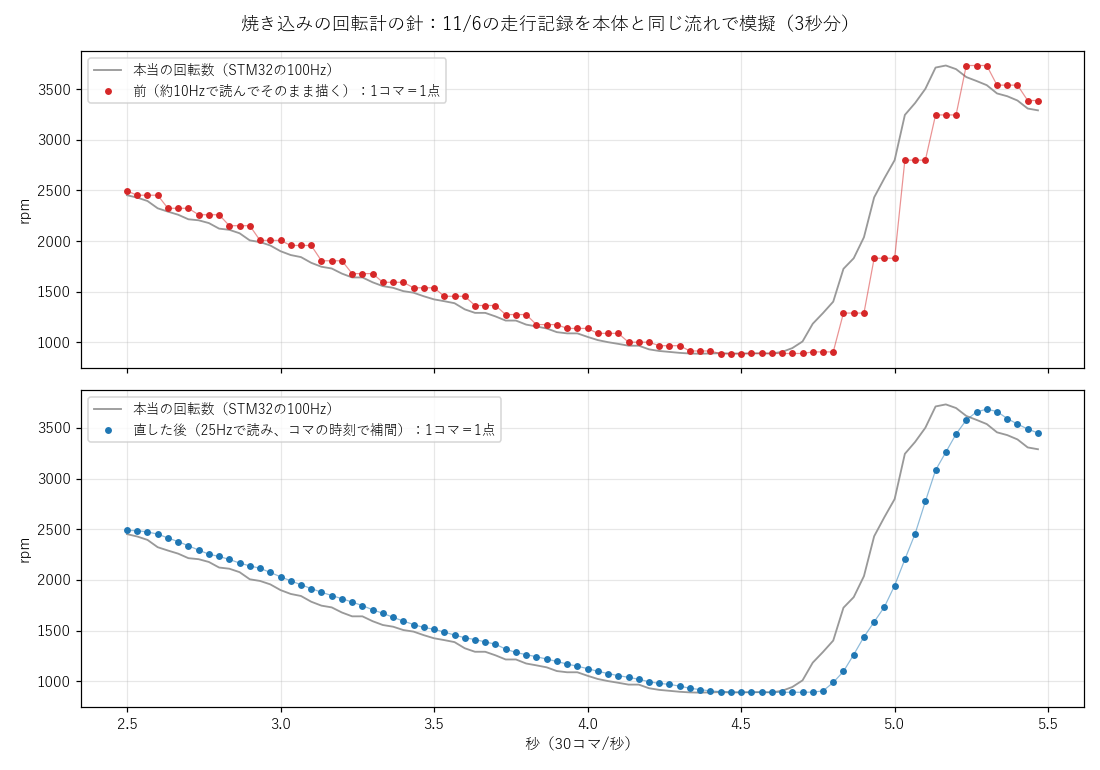
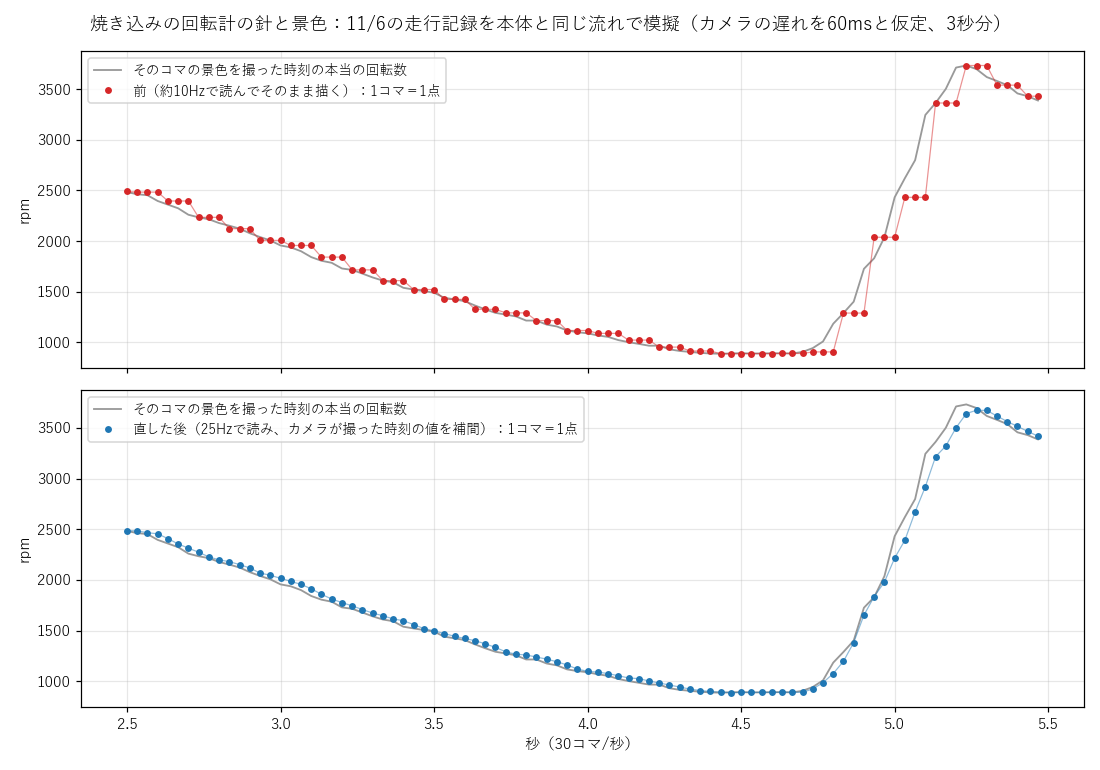
SG-2-5: 焼き込みの針を、カメラがその絵を撮った時刻の値で描くようにした（ユーザー判断「合わせて」。本体へはまだ入れていない）。ca0277bは「今−0.1秒」の値を描いていたため、針と景色の時刻の差はカメラの遅れしだいだった（前の描き方でも差は0.03〜0.16秒でばらつき、カメラの遅れが長いと針が景色より先に動いていた）。tele_smooth.hのtsm_frameで、各コマの撮った時刻（UVCがCLOCK_MONOTONICで付ける時刻）の値をmcu_msの時刻で前後のサンプルから補間する。その値がまだ届いていなければ先を当て推量せず、「今−待つ秒」まで戻す。待つ秒は「今−いちば

diff --git a/tools/unoq_overlay_enc/tele_smooth_test.c b/tools/unoq_overlay_enc/tele_smooth_test.c
@@ -1,9 +1,10 @@
 // tele_smooth_test.c：針の補間（tele_smooth.h）の試験（PC・WSL）。手順書5-24
 //   ビルド: gcc -O2 -Wall -o tele_smooth_test tele_smooth_test.c -lm
 //   実行:   ./tele_smooth_test                 … 試験（作り物の回転数で、通れば最後に OK）
-//           ./tele_smooth_test <抜き出し.csv>  … 走行記録（列 mcu_ms,RPM。100Hz）を流し、1コマごとの「本当の値・前の描き方・補間」を標準出力へ
+//           ./tele_smooth_test <抜き出し.csv>  … 走行記録（列 mcu_ms,RPM。100Hz）を流し、1コマごとの「景色の時刻の本当の値・前の描き方・補間」を標準出力へ
 //   本体での流れを真似る：STM32が10msごとにサンプル → EcoCaptureが約50ms（＋0〜15ms）ごとにまとめて受け取り、最後の1つを
 //   /api/telemetry に出す（受け取りまで2〜8ms）→ overlay_rec が読む（前は0.1秒ごと、今は0.04秒ごと。読むのに2〜6ms）→ 30コマ/秒で描く。
+//   カメラの絵は、描く時刻より「カメラの遅れ」だけ前に撮られている（本体では未測定なので、いくつかの値で試す）。
 //   STM32の時計は本体の時計より 1秒に100μs 速く、差は5秒（どちらも本物より大きくして試す）
 #include <stdio.h>
 #include <stdlib.h>
@@ -29,22 +30,23 @@ static double signal(double tt) {
 
 #define DRIFT 1.0001
 #define OFF0 5.0
-static double mono_of(double tt) { return tt * DRIFT + OFF0; }   // STM32の時刻 → 本体の時計
-static double tt_of(double mono) { return (mono - OFF0) / DRIFT; }
+static double tt_of(double mono) { return (mono - OFF0) / DRIFT; }  // 本体の時計 → STM32の時刻
 
-struct result { int frames, frozen; double max_jump, max_truth_jump, lag, rms; };
+struct result { int frames, frozen; double max_jump, max_truth_jump, lag, rms, behind; };
 
-// seconds 秒流し、poll 秒ごとに読み、delay で補間して（delay<0 なら前の描き方：読んだ値のまま）描く
-static struct result run(double seconds, double poll, double delay, int dump, double *disp_out) {
+// seconds 秒流し、poll 秒ごとに読み、dmax（待つ秒の上限）で補間して描く。dmax<0 なら前の描き方（読んだ値のまま）。
+// cam_lat：カメラの遅れ（描く時刻 − 撮った時刻）。lag は「景色（撮った時刻）より針が何秒遅れているか」（負なら針が先）
+static struct result run(double seconds, double poll, double dmax, double cam_lat, double *disp_out) {
     static struct tsm m; tsm_reset(&m);
     double eco_t = 0.05 + OFF0, eco_ready = 0, eco_val = NAN, eco_mcu = NAN;  // EcoCaptureが出している最後のサンプル
     double next_poll = OFF0 + 0.013, held = NAN, last_mcu = NAN;
     struct result r = { 0 };
     const int nf = seconds * 30;
-    double *disp = disp_out ? disp_out : malloc(sizeof(double) * nf), *frame_t = malloc(sizeof(double) * nf);
+    double *disp = disp_out ? disp_out : malloc(sizeof(double) * nf), *cam_t = malloc(sizeof(double) * nf);
     const double t0 = OFF0 + 1.0;  // 1秒たってから描き始める
     for (int f = 0; f < nf; f++) {
-        const double ft = t0 + f / 30.0 + rnd() * 0.004;  // コマの時刻（ばらつき4ms）
+        const double ft = t0 + f / 30.0 + rnd() * 0.004;  // 描く時刻（ばらつき4ms）
+        const double cam = ft - cam_lat - rnd() * 0.004;  // その絵を撮った時刻
         // ft までの、EcoCaptureの受け取りと overlay_rec の読み取りを順に進める
         for (;;) {
             const double t_next = fmin(eco_t, next_poll);
@@ -63,66 +65,82 @@ static struct result run(double seconds, double poll, double delay, int dump, do
             }
         }
         double v = held;
-        if (delay >= 0) tsm_get(&m, ft, delay, &v, 1);
-        disp[f] = v; frame_t[f] = ft;
+        if (dmax >= 0) { tsm_frame(&m, cam, ft, dmax, &v, 1); r.behind += m.behind; }
+        disp[f] = v; cam_t[f] = cam;
     }
+    r.behind /= nf;
     // 滑らかさ：本当の値が動いているのに針が止まったコマ、1コマで動いた量の最大
     for (int f = 1; f < nf; f++) {
-        const double d = fabs(disp[f] - disp[f - 1]), dt = fabs(signal(tt_of(frame_t[f])) - signal(tt_of(frame_t[f - 1])));
+        const double d = fabs(disp[f] - disp[f - 1]), dt = fabs(signal(tt_of(cam_t[f])) - signal(tt_of(cam_t[f - 1])));
         r.frames++;
         if (d < 1e-9 && dt > 5) r.frozen++;
         if (d > r.max_jump) r.max_jump = d;
         if (dt > r.max_truth_jump) r.max_truth_jump = dt;
     }
-    // 遅れ：本当の値をずらして一番よく重なるずれ（0〜300ms、1ms刻み）と、そのときの誤差
+    // 遅れ：景色の時刻の本当の値をずらして一番よく重なるずれ（−200〜300ms、1ms刻み）と、そのときの誤差
     r.rms = 1e18;
-    for (int lag = 0; lag <= 300; lag++) {
+    for (int lag = -200; lag <= 300; lag++) {
         double e = 0; int n = 0;
-        for (int f = 0; f < nf; f++) if (!isnan(disp[f])) { double x = disp[f] - signal(tt_of(frame_t[f] - lag / 1000.0)); e += x * x; n++; }
+        for (int f = 0; f < nf; f++) if (!isnan(disp[f])) { double x = disp[f] - signal(tt_of(cam_t[f] - lag / 1000.0)); e += x * x; n++; }
         e = sqrt(e / n);
         if (e < r.rms) { r.rms = e; r.lag = lag / 1000.0; }
     }
-    if (dump) {
-        printf("frame,t,truth,displayed\n");
-        for (int f = 0; f < nf; f++) printf("%d,%.4f,%.1f,%.1f\n", f, frame_t[f] - t0, signal(tt_of(frame_t[f])), disp[f]);
-    }
     if (!disp_out) free(disp);
-    free(frame_t);
+    free(cam_t);
     return r;
 }
 
 static void unit_tests(void) {
     static struct tsm m; double v, out[2];
     tsm_reset(&m);
-    tsm_get(&m, 10, 0.1, out, 1); CHECK(isnan(out[0]), "空ならNAN");
+    tsm_frame(&m, 10, 10, 0.15, out, 1); CHECK(isnan(out[0]), "空ならNAN");
     v = 100; CHECK(tsm_push(&m, 1.00, 11.00, &v, 1) == 1, "1つ目");
     CHECK(tsm_push(&m, 1.00, 11.04, &v, 1) == 0, "同じ時刻は足さない");
-    v = 200; tsm_push(&m, 1.05, 11.06, &v, 1);  // 遅れ 10.00・10.01 → 差は10.00
-    tsm_get(&m, 11.125, 0.1, out, 1); CHECK(fabs(out[0] - 150) < 1, "真ん中で150: %f", out[0]);
-    tsm_get(&m, 12.0, 0.1, out, 1); CHECK(out[0] == 200, "先は新しい値のまま（行き過ぎない）: %f", out[0]);
-    tsm_get(&m, 10.0, 0.1, out, 1); CHECK(out[0] == 100, "前は古い値: %f", out[0]);
-    tsm_get(&m, 11.125, 0, out, 1); CHECK(out[0] == 200, "delay 0 は届いた値のまま: %f", out[0]);
-    // 途切れ：0.5秒より離れていれば補間しない
-    v = 1000; tsm_push(&m, 2.05, 12.06, &v, 1);
-    tsm_get(&m, 11.40, 0.1, out, 1); CHECK(out[0] == 200, "途切れの前半は前の値: %f", out[0]);
-    tsm_get(&m, 11.80, 0.1, out, 1); CHECK(out[0] == 1000, "途切れの後半は後の値: %f", out[0]);
+    v = 200; tsm_push(&m, 1.05, 11.06, &v, 1);  // 遅れ 10.00・10.01 → 時計の差は約10.00
+    tsm_value(&m, 1.025, out, 1); CHECK(fabs(out[0] - 150) < 1e-6, "真ん中で150: %f", out[0]);
+    tsm_value(&m, 2.0, out, 1); CHECK(out[0] == 200, "先は新しい値のまま（行き過ぎない）: %f", out[0]);
+    tsm_value(&m, 0.5, out, 1); CHECK(out[0] == 100, "前は古い値: %f", out[0]);
+    // 撮った時刻の値が届いていれば、その時刻の値（針は景色より遅れない）
+    tsm_frame(&m, 11.025, 11.07, 0.15, out, 1);
+    CHECK(fabs(out[0] - 150) < 1 && m.behind == 0, "撮った時刻の値: %f behind %f", out[0], m.behind);
+    // 撮った時刻の値がまだ無ければ、「今 − 待つ秒」まで戻す（行き過ぎない）
+    tsm_frame(&m, 11.07, 11.08, 0.15, out, 1);  // 待つ秒は 11.08−10.00−1.05＝0.03 → 11.08−0.035
+    CHECK(fabs(m.wait - 0.03) < 1e-3 && fabs(m.behind - 0.025) < 1e-3, "待つ: wait %f behind %f", m.wait, m.behind);
+    CHECK(out[0] > 150 && out[0] < 200, "途中の値: %f", out[0]);
+    // 待つ秒は上限で止まり、ゆっくり縮む
+    tsm_frame(&m, 12.0, 13.0, 0.15, out, 1); CHECK(fabs(m.wait - 0.15) < 1e-9, "上限: %f", m.wait);
+    v = 300; tsm_push(&m, 2.00, 13.005, &v, 1);
+    tsm_frame(&m, 13.0, 15.0, 0.15, out, 1);  // 2秒後でも値が来ていない → 上限のまま
+    v = 400; tsm_push(&m, 4.00, 15.005, &v, 1);
+    tsm_frame(&m, 14.9, 15.01, 0.15, out, 1); CHECK(fabs(m.wait - 0.15) < 1e-3, "来た直後: %f", m.wait);
+    tsm_frame(&m, 14.9, 16.01, 0.15, out, 1); CHECK(fabs(m.wait - 0.15) < 1e-3, "来ないまま1秒は上限: %f", m.wait);
+    // 上限0は前の描き方（いちばん新しい値）
+    tsm_frame(&m, 11.0, 16.0, 0, out, 1); CHECK(out[0] == 400 && m.behind == 0, "上限0: %f", out[0]);
+    // 途切れ：0.5秒より離れていれば補間しない（2.00→4.00）
+    tsm_value(&m, 2.9, out, 1); CHECK(out[0] == 300, "途切れの前半は前の値: %f", out[0]);
+    tsm_value(&m, 3.1, out, 1); CHECK(out[0] == 400, "途切れの後半は後の値: %f", out[0]);
     // 片方が無い（NAN）
-    double w[2] = { 5, NAN }; tsm_push(&m, 2.10, 12.11, w, 2);
-    double w2[2] = { 7, 9 }; tsm_push(&m, 2.20, 12.21, w2, 2);
-    tsm_get(&m, 12.26, 0.1, out, 2);  // tq = 2.16 → 6割の所
-    CHECK(fabs(out[0] - 6.2) < 0.1 && out[1] == 9, "NANの側は近い方: %f %f", out[0], out[1]);
+    double w[2] = { 5, NAN }; tsm_push(&m, 4.10, 15.11, w, 2);
+    double w2[2] = { 7, 9 }; tsm_push(&m, 4.20, 15.21, w2, 2);
+    tsm_value(&m, 4.16, out, 2);
+    CHECK(fabs(out[0] - 6.2) < 1e-6 && out[1] == 9, "NANの側は近い方: %f %f", out[0], out[1]);
     // STM32の再起動（時刻が戻る）：ためたものを捨てる
-    v = 42; CHECK(tsm_push(&m, 0.01, 13.0, &v, 1) == 1, "戻った時刻も足す");
-    CHECK(m.n == 1 && fabs(m.off - 12.99) < 1e-9, "始め直す: n=%d off=%f", m.n, m.off);
+    v = 42; CHECK(tsm_push(&m, 0.01, 16.0, &v, 1) == 1, "戻った時刻も足す");
+    CHECK(m.n == 1 && fabs(m.off - 15.99) < 1e-9 && m.wait == 0, "始め直す: n=%d off=%f wait=%f", m.n, m.off, m.wait);
     // 輪：TSM_N より多く足しても新しいものが残る
     tsm_reset(&m);
     for (int i = 0; i < 100; i++) { v = i; tsm_push(&m, i * 0.05, 3 + i * 0.05, &v, 1); }
     CHECK(m.n == TSM_N, "n=%d", m.n);
-    tsm_get(&m, 3 + 99 * 0.05 - 0.025 + 0.1, 0.1, out, 1); CHECK(fabs(out[0] - 98.5) < 1e-6, "輪の中の補間: %f", out[0]);
+    tsm_value(&m, 98.5 * 0.05, out, 1); CHECK(fabs(out[0] - 98.5) < 1e-6, "輪の中の補間: %f", out[0]);
+}
+
+static void show(const char *name, struct result r) {
+    printf("  %-22s 止まったコマ %5d/%d (%2.0f%%)、1コマの最大の動き %4.0frpm（本当の値は%3.0f）、針が景色より %+4.0fms、誤差 %3.0frpm\n",
+           name, r.frozen, r.frames, 100.0 * r.frozen / r.frames, r.max_jump, r.max_truth_jump, r.lag * 1000, r.rms);
 }
 
 int main(int argc, char **argv) {
-    if (argc > 1) {  // 走行記録で、1コマごとの値を書き出す
+    if (argc > 1) {  // 走行記録で、1コマごとの値を書き出す（カメラの遅れ60ms）
         FILE *f = fopen(argv[1], "r"); if (!f) { perror(argv[1]); return 1; }
         char line[256]; int cap = 1 << 16; rec_t = malloc(sizeof(double) * cap); rec_v = malloc(sizeof(double) * cap);
         if (!fgets(line, sizeof line, f)) return 1;
@@ -133,36 +151,39 @@ int main(int argc, char **argv) {
         }
         fclose(f);
         const double t0 = rec_t[0]; for (int i = 0; i < rec_n; i++) rec_t[i] -= t0;
-        const double secs = rec_t[rec_n - 1] - 2;
+        const double secs = rec_t[rec_n - 1] - 2, lat = 0.06;
         const int nf = secs * 30;
         double *old = malloc(sizeof(double) * nf), *neu = malloc(sizeof(double) * nf);
-        rs = 1; struct result a = run(secs, 0.1, -1, 0, old);
-        rs = 1; struct result b = run(secs, 0.04, 0.1, 0, neu);
-        printf("frame,t,truth,old,smooth\n");
-        for (int i = 0; i < nf; i++) printf("%d,%.4f,%.1f,%.1f,%.1f\n", i, i / 30.0, signal(i / 30.0 + 1.0), old[i], neu[i]);
-        fprintf(stderr, "前の描き方: 止まったコマ %d/%d、1コマの最大の動き %.0f、遅れ %.0fms\n", a.frozen, a.frames, a.max_jump, a.lag * 1000);
-        fprintf(stderr, "補間:       止まったコマ %d/%d、1コマの最大の動き %.0f、遅れ %.0fms\n", b.frozen, b.frames, b.max_jump, b.lag * 1000);
+        rs = 1; struct result a = run(secs, 0.1, -1, lat, old);
+        rs = 1; struct result b = run(secs, 0.04, 0.15, lat, neu);
+        printf("frame,t,truth_at_camera,old,smooth\n");
+        for (int i = 0; i < nf; i++) printf("%d,%.4f,%.1f,%.1f,%.1f\n", i, i / 30.0, signal(tt_of(OFF0 + 1.0 + i / 30.0 - lat)), old[i], neu[i]);
+        fprintf(stderr, "前の描き方: 止まったコマ %d/%d、1コマの最大の動き %.0f、針が景色より %+.0fms\n", a.frozen, a.frames, a.max_jump, a.lag * 1000);
+        fprintf(stderr, "補間:       止まったコマ %d/%d、1コマの最大の動き %.0f、針が景色より %+.0fms\n", b.frozen, b.frames, b.max_jump, b.lag * 1000);
         return 0;
     }
     unit_tests();
-    // 前の描き方（0.1秒ごとに読んで、そのまま描く）
-    rs = 7; struct result a = run(600, 0.1, -1, 0, NULL);
-    // 補間（0.04秒ごとに読み、0.1秒遅らせて補間）
-    rs = 7; struct result b = run(600, 0.04, 0.1, 0, NULL);
-    printf("前の描き方: 止まったコマ %d/%d (%.0f%%)、1コマの最大の動き %.0frpm（本当の値は%.0f）、遅れ %.0fms、誤差 %.0frpm\n",
-           a.frozen, a.frames, 100.0 * a.frozen / a.frames, a.max_jump, a.max_truth_jump, a.lag * 1000, a.rms);
-    printf("補間:       止まったコマ %d/%d (%.0f%%)、1コマの最大の動き %.0frpm（本当の値は%.0f）、遅れ %.0fms、誤差 %.0frpm\n",
-           b.frozen, b.frames, 100.0 * b.frozen / b.frames, b.max_jump, b.max_truth_jump, b.lag * 1000, b.rms);
-    CHECK(a.frozen > a.frames / 2, "前の描き方は半分以上のコマで止まっていたはず: %d", a.frozen);
-    CHECK(b.frozen == 0, "補間で止まるコマは無い: %d", b.frozen);
-    CHECK(b.max_jump < a.max_jump / 2, "1コマの動きは半分より小さい: %.0f / %.0f", b.max_jump, a.max_jump);
-    CHECK(b.max_jump < b.max_truth_jump * 1.6, "1コマの動きは本当の値の動きと同じくらい: %.0f / %.0f", b.max_jump, b.max_truth_jump);
-    CHECK(fabs(b.lag - a.lag) < 0.04, "平均の遅れは前と同じくらい: %.0f / %.0fms", b.lag * 1000, a.lag * 1000);
-    CHECK(b.rms < a.rms, "本当の値との誤差は小さくなる: %.0f / %.0f", b.rms, a.rms);
+    const double lats[] = { 0.02, 0.06, 0.10, 0.15 };
+    for (int i = 0; i < 4; i++) {
+        printf("カメラの遅れ %.0fms：\n", lats[i] * 1000);
+        rs = 7; struct result a = run(300, 0.1, -1, lats[i], NULL);    // 前：0.1秒ごとに読んで、そのまま描く
+        rs = 7; struct result b = run(300, 0.04, 0.15, lats[i], NULL); // 今：0.04秒ごとに読み、撮った時刻で補間
+        show("前（10Hz・そのまま）", a);
+        show("今（25Hz・撮った時刻）", b);
+        printf("  （今の針が待ちのために景色より遅れた平均 %.0fms）\n", b.behind * 1000);
+        // 止まるのは、値がいつもより遅れて届いた間だけ（先を当て推量しないので、その間は届いている所で待つ）
+        CHECK(b.frozen < b.frames / 500, "補間で止まるコマはほぼ無い: %d", b.frozen);
+        CHECK(b.max_jump < b.max_truth_jump * 1.6, "1コマの動きは本当の値の動きと同じくらい: %.0f / %.0f", b.max_jump, b.max_truth_jump);
+        // カメラの遅れが短いと、値が届くのを待つ分だけ針が遅れる（前より遅れはしない）。前はカメラの遅れが長いと針が景色より先に出ていた
+        if (lats[i] < 0.10) CHECK(b.lag <= a.lag + 0.002, "前より遅れない: %.0f / %.0fms", b.lag * 1000, a.lag * 1000);
+        CHECK(b.rms < a.rms, "本当の値との誤差は小さくなる: %.0f / %.0f", b.rms, a.rms);
+        if (lats[i] >= 0.10) CHECK(fabs(b.lag) < 0.015, "カメラの遅れが待つ秒より長ければ、景色とほぼ揃う: %.0fms", b.lag * 1000);
+        if (i == 1) CHECK(a.frozen > a.frames / 2, "前の描き方は半分以上のコマで止まっていたはず: %d", a.frozen);
+    }
     // 読み取りが遅いとき（10Hzのまま）でも、補間なら止まらない
-    rs = 7; struct result c = run(120, 0.1, 0.15, 0, NULL);
-    printf("10Hzで読んで補間（delay 0.15）: 止まったコマ %d/%d、最大の動き %.0f、遅れ %.0fms\n", c.frozen, c.frames, c.max_jump, c.lag * 1000);
-    CHECK(c.frozen < c.frames / 50, "10Hzでも、ほぼ止まらない: %d", c.frozen);
+    rs = 7; struct result c = run(120, 0.1, 0.2, 0.06, NULL);
+    printf("10Hzで読んで補間（上限0.2秒）：止まったコマ %d/%d、最大の動き %.0f、針が景色より %+.0fms\n", c.frozen, c.frames, c.max_jump, c.lag * 1000);
+    CHECK(c.frozen < c.frames / 200, "10Hzでも、ほぼ止まらない: %d", c.frozen);
     if (fails) { printf("%d 件 NG\n", fails); return 1; }
     printf("OK\n");
     return 0;

diff --git a/tools/unoq_overlay_enc/tele_smooth.h b/tools/unoq_overlay_enc/tele_smooth.h
@@ -1,13 +1,15 @@
-// tele_smooth.h：走行データの値を、描くコマの時刻に合わせて前後のサンプルの間で直線に補間する（手順書5-24）
+// tele_smooth.h：走行データの値を、描くコマ（カメラがその絵を撮った時刻）に合わせて前後のサンプルの間で直線に補間する（手順書5-24）
 //   overlay_rec.c は30コマ/秒で描くが、値（EcoCaptureの /api/telemetry）は飛び飛びに届く。届いた値をそのまま描くと、
 //   針が何コマか止まっては跳ぶ（2026-11-07まで：約10Hzで読み、3コマ同じ角度→跳ぶ。読む間隔とEcoCaptureの更新が
 //   揃わないので、2コマ・4コマのこともあった）。
 //   ここでは届いたサンプルを、サンプル自身の時刻（mcu_ms。STM32の時計なので受け取りのばらつきが乗らない）と一緒にためておき、
-//   「今 − 遅らせる秒（delay）」の時刻の値を、その前後のサンプルから直線で求める。遅らせるのは、まだ届いていない先の値を
-//   当て推量で描かない（行き過ぎない）ため。delay は「サンプルの間隔＋読む間隔＋ばらつき」より長くする（既定0.1秒）。
-//   10Hzで読んで届いたまま描いていたときの平均の遅れも約0.1秒なので、映像との時刻の合い方は平均では変わらない。
+//   そのコマの絵をカメラが撮った時刻の値を、前後のサンプルから直線で求める（tsm_frame）。こうすると景色と針の時刻が揃う。
+//   ただし撮った時刻の値がまだ届いていないこと（カメラの絵が届くのが値より速いとき）がある。先を当て推量すると行き過ぎるので、
+//   そのときは「今 − 待つ秒」まで戻す。待つ秒は「今 − いちばん新しいサンプルの時刻」の最近の最大（＝値が届くまでの最悪の遅れ）で、
+//   本体で動きながら自分で測る（ゆっくり縮め、上限は dmax）。その分だけ針が景色より遅れる（前の描き方の平均の遅れ約0.1秒より短い）。
 //   STM32の時計と本体の時計（CLOCK_MONOTONIC）の差は「受け取った時刻 − サンプルの時刻」の一番小さいもの（遅れの一番少ないもの）とし、
-//   時計の進みの違い（水晶のずれ）に付いていくよう、1秒に TSM_RELAX 秒ずつ大きい側へゆるめる。
+//   時計の進みの違い（水晶のずれ）に付いていくよう、1秒に TSM_RELAX 秒ずつ大きい側へゆるめる。この一番小さい遅れ（STM32→本体、
+//   数ms〜十数ms）の分だけは、針が景色より古いままになる。
 //   使うのは針のメーター・弧・棒・Gボールだけ（hud_draw の vs）。数字・ラップ・コース図は届いた値をそのまま描く。
 // PCの試験：tele_smooth_test.c
 #ifndef TELE_SMOOTH_H
@@ -18,18 +20,22 @@
 #ifndef TSM_MAXV
 #define TSM_MAXV 32
 #endif
-#define TSM_N 16          // ためるサンプルの数（25Hzで0.6秒。delay より十分長い）
-#define TSM_RELAX 0.002   // 時計の差を1秒にこれだけ大きい側へゆるめる（水晶のずれは多くて1秒に0.0001秒）
+#define TSM_N 16          // ためるサンプルの数（約20個/秒で0.8秒。待つ秒の上限より十分長い）
+#define TSM_RELAX 0.0005  // 時計の差を1秒にこれだけ大きい側へゆるめる（水晶のずれは多くて1秒に0.0001秒。大きいほど針が景色より遅れる）
 #define TSM_GAP 0.5       // 前後のサンプルがこれより離れていれば補間しない（途切れのあと。近い方の値を使う）
+#define TSM_SHRINK 0.05   // 待つ秒を1秒にこれだけ縮める（たまの大きな遅れのあと、約数秒で戻る）
+#define TSM_MARGIN 0.005  // 待つ秒に足す余裕
 
 struct tsm_s { double t; double v[TSM_MAXV]; };
 struct tsm {
     int n, head;          // 入っている数・いちばん新しいものの位置
     int has_off; double off, off_got;  // 本体の時計 − サンプルの時刻（いちばん遅れの少ないもの）と、それを求めた受け取り時刻
+    double wait, wait_at;  // 待つ秒（値が届くまでの最近の最悪の遅れ）と、それを最後に直した時刻
+    double behind;         // 最後のコマで、針が景色より遅れた秒（0なら撮った時刻の値）
     struct tsm_s s[TSM_N];
 };
 
-static void tsm_reset(struct tsm *m) { m->n = 0; m->head = 0; m->has_off = 0; }
+static void tsm_reset(struct tsm *m) { m->n = 0; m->head = 0; m->has_off = 0; m->wait = 0; m->wait_at = 0; m->behind = 0; }
 
 static const struct tsm_s *tsm_at(const struct tsm *m, int i) {  // i=0 がいちばん古い
     return &m->s[(m->head - (m->n - 1) + i + TSM_N) % TSM_N];
@@ -57,13 +63,12 @@ static int tsm_push(struct tsm *m, double t, double got, const double *v, int nv
     return 1;
 }
 
-// 描く時刻 now の値を out へ。delay が0以下、またはまだ何も無ければ、いちばん新しい値（無ければNAN）
-static void tsm_get(const struct tsm *m, double now, double delay, double *out, int nv) {
+// サンプルの時刻 tq（STM32の時計）の値を out へ。まだ何も無ければNAN。tq がいちばん新しいものより先なら、それのまま（行き過ぎない）
+static void tsm_value(const struct tsm *m, double tq, double *out, int nv) {
     if (nv > TSM_MAXV) nv = TSM_MAXV;
     if (!m->n) { for (int i = 0; i < nv; i++) out[i] = NAN; return; }
     const struct tsm_s *hi = &m->s[m->head];
-    const double tq = now - m->off - delay;
-    if (delay <= 0 || tq >= hi->t || m->n == 1) { memcpy(out, hi->v, sizeof out[0] * nv); return; }
+    if (tq >= hi->t || m->n == 1) { memcpy(out, hi->v, sizeof out[0] * nv); return; }
     const struct tsm_s *lo = tsm_at(m, 0);
     if (tq <= lo->t) { memcpy(out, lo->v, sizeof out[0] * nv); return; }
     for (int k = m->n - 2; k >= 0; k--) {
@@ -76,5 +81,20 @@ static void tsm_get(const struct tsm *m, double now, double delay, double *out, 
         if (span > TSM_GAP || isnan(x) || isnan(y)) out[i] = a < .5 ? x : y;  // 途切れ・片方が無い：近い方
         else out[i] = x + (y - x) * a;
     }
+}
+
+// 1コマ分の値を out へ。cam：そのコマの絵をカメラが撮った時刻、now：今（どちらも本体の時計）。dmax：待つ秒の上限
+// （0以下なら補間せず、いちばん新しい値＝前の描き方）。描画のスレッドから毎コマ1回呼ぶ
+static void tsm_frame(struct tsm *m, double cam, double now, double dmax, double *out, int nv) {
+    if (dmax <= 0 || !m->n) { tsm_value(m, INFINITY, out, nv); m->behind = 0; return; }
+    // 値が届くまでの遅れ：今 − いちばん新しいサンプルの時刻（本体の時計で）。最近の最大を覚え、ゆっくり縮める
+    const double gap = now - m->off - m->s[m->head].t;
+    // 途切れ（値が来ない間）で大きくなっても上限で止める（戻るのに何十秒もかからないように）
+    m->wait = fmin(m->wait_at > 0 ? fmax(gap, m->wait - (now - m->wait_at) * TSM_SHRINK) : gap, dmax);
+    m->wait_at = now;
+    const double w = fmin(fmax(m->wait + TSM_MARGIN, 0), dmax), safe = now - w;
+    const double t = fmin(cam, safe);  // 撮った時刻。その値がまだ届いていなければ、届いている所まで
+    m->behind = cam - t;
+    tsm_value(m, t - m->off, out, nv);
 }
 #endif

diff --git a/unoq_video_check_procedure.md b/unoq_video_check_procedure.md
@@ -1208,36 +1208,49 @@ TSの書き出し（`put`・`ts_tables`・`ts_frame`）は`overlay_rec.c`から`
 
 **戻すとき**：`audio.ini`に`mic_volume = 0dB`・`highpass_hz = 0`・`limiter = 0`と書いて録画を再起動すると、前と同じ音になる。全部戻すときは2の控えを元の名前へ戻して再起動
 
-### 5-24. 針の動きが粗い件：届いた値の間をコマの時刻で補間する（2026-11-07、ユーザー指摘）
+### 5-24. 針の動きが粗い件：カメラが撮った時刻の値を、届いた値の間から補間する（2026-11-07、ユーザー指摘）
 
 **原因**：録画は30コマ/秒で描くが、値（EcoCaptureの`/api/telemetry`）を**約10Hz（0.1秒ごと）でしか読んでいなかった**。読んだ値をそのまま描くので、針は約3コマ同じ角度で止まってから跳ぶ。読む間隔とEcoCaptureの更新（STM32から約50ms＋ばらつきごとにまとめて受け取る）が揃わないため、2コマ・4コマ止まることもあった。
 元のデータは細かい：11/6の走行記録で、回転数（CAN）・車速（CAN）は約26msごと（約40Hz）に変わり、G（IMU）は10msごと。足りないのは録画プログラムの読み方だけだった（夜にコマ数が落ちていた件は5-21で直っている）。
+前の描き方では、針と景色の時刻の差も0.03〜0.16秒の間で行き来していた（読んだ直後は新しく、次に読む直前は古い）。
 
 **直し方**（[tele_smooth.h](tools/unoq_overlay_enc/tele_smooth.h)、[overlay_rec.c](tools/unoq_overlay_enc/overlay_rec.c)）：
 - 読む回数を約25Hz（0.04秒ごと）に上げる。同じサンプルの読み直し（`mcu_ms`が前と同じ）は捨てる
 - 届いたサンプルを、サンプル自身の時刻（`mcu_ms`＝STM32の時計。受け取りのばらつきが乗らない）と一緒に16個ためる
-- 各コマで「今 − 0.1秒」の時刻の値を、前後のサンプルから直線で求めて描く。先の値を当て推量しない（行き過ぎない）ために0.1秒遅らせる。**10Hzで読んで届いたまま描いていたときも平均の遅れは約0.1秒だったので、映像との時刻の合い方は平均では変わらない**
-- STM32の時計と本体の時計の差は「受け取った時刻 − サンプルの時刻」の一番小さいもの。時計の進みの違いに付いていくよう1秒に2msずつゆるめる。STM32が再起動して時刻が戻ったら始め直す。0.5秒より離れたサンプルの間（途切れ）は補間せず近い方の値
+- 各コマで、**そのコマの絵をカメラが撮った時刻**（UVCがCLOCK_MONOTONICで付ける時刻）の値を、前後のサンプルから直線で求めて描く（ユーザー判断「合わせて」）。景色と針の時刻が揃う
+- その時刻の値がまだ届いていない（カメラの絵が値より速く届く）ときは、先を当て推量せず（行き過ぎない）、「今 − 待つ秒」まで戻す。待つ秒は「今 − いちばん新しいサンプルの時刻」の最近の最大（値が届くまでの最悪の遅れ）を本体で動きながら測ったもの（1秒に50msずつ縮める、上限`smooth_ms`）。その分だけ針が景色より遅れる。遅れが要るのはカメラの遅れが待つ秒より短いときだけ
+- STM32の時計と本体の時計の差は「受け取った時刻 − サンプルの時刻」の一番小さいもの。時計の進みの違いに付いていくよう1秒に0.5msずつゆるめる。STM32が再起動して時刻が戻ったら始め直す。0.5秒より離れたサンプルの間（途切れ）は補間せず近い方の値
+- 針が景色より古いまま残るのは、値がSTM32から本体へ届く一番短い時間（数ms〜十数ms。試験では約11ms）だけ
 - 補間するのは**針のメーター・弧・棒・Gボールだけ**。数字・ラップ・時刻・コース図は届いた値をそのまま描く（数字が途中の値を出さないように）
 - ベストとの差・コース図の線（[lap_ref.h](tools/unoq_overlay_enc/lap_ref.h)）は約10Hzでためる前提（`LR_MAX`）なので、速く読んでも0.1秒に1回だけ進める
-- 調整（本体の`~/ecologger-video/`、録画の再起動で効く）：`smooth_ms`に遅らせるミリ秒（既定100。**0と書くと補間せず前と同じ描き方**）、`telemetry_hz`に読む回数（既定25）。中身は数字1つ
+- 1分ごとにjournalへ`smooth: camera_age … ms, wait … ms, needle_behind_camera avg … ms max … ms`を出す（カメラの時刻が付いてから描くまで・待つ秒・待ったために針が景色より遅れた秒）。camera_ageはカメラの中の遅れ（露出・圧縮）を含まない
+- 調整（本体の`~/ecologger-video/`、録画の再起動で効く）：`smooth_ms`に待つミリ秒の上限（既定150。**0と書くと補間せず前と同じ描き方**）、`telemetry_hz`に読む回数（既定25）。中身は数字1つ
 
-**PCで確かめたこと（WSL、[tele_smooth_test.c](tools/unoq_overlay_enc/tele_smooth_test.c)）**：本体の流れ（STM32が10msごと→EcoCaptureが約50〜65msごとに最後の1つを出す→録画プログラムが読む→30コマ/秒で描く。STM32の時計は1秒に100μs速い）を真似た10分：
+**PCで確かめたこと（WSL、[tele_smooth_test.c](tools/unoq_overlay_enc/tele_smooth_test.c)）**：本体の流れ（STM32が10msごと→EcoCaptureが約50〜65msごとに最後の1つを出す→録画プログラムが読む→30コマ/秒で描く。STM32の時計は1秒に100μs速い）を真似た5分。カメラの遅れ（描く時刻 − 撮った時刻）は本体で測っていないので4通り：
 
-| | 針が止まったコマ（本当の値は動いている） | 1コマで動いた最大 | 遅れ | 本当の値との誤差 |
-|---|---|---|---|---|
-| 前（10Hzで読んでそのまま） | 64% | 623rpm（本当の値は179rpm） | 95ms | 79rpm |
-| 直した後（25Hz・補間） | 0% | 177rpm | 114ms | 7rpm |
+| カメラの遅れ | 描き方 | 針が止まったコマ | 1コマで動いた最大 | 針が景色より | 本当の値との誤差 |
+|---|---|---|---|---|---|
+| 20ms | 前 | 64% | 654rpm | +73ms（ばらつく） | 79rpm |
+| | 今 | 0.09% | 188rpm | +68ms | 20rpm |
+| 60ms | 前 | 64% | 654rpm | +33ms（ばらつく） | 79rpm |
+| | 今 | 0.09% | 188rpm | +28ms | 20rpm |
+| 100ms | 前 | 64% | 654rpm | −7ms（ばらつく） | 79rpm |
+| | 今 | 0% | 191rpm | +11ms | 6rpm |
+| 150ms | 前 | 64% | 654rpm | **−57ms（針が先に動く）** | 79rpm |
+| | 今 | 0% | 190rpm | +11ms | 6rpm |
 
-- 11/6の走行記録の回転数20秒（887〜3964rpm）を同じ流れで流した比較の図：`outputs/needle_smooth_20261107/needle_rpm_compare.png`（前：止まったコマ172/538・最大968rpm、後：0/538・318rpm）
-- 単体：同じ時刻の読み直しを足さない・先は新しい値のまま・途切れ・片方が無い値・STM32の再起動・16個を超えたとき
-- 10Hzで読むままでも`smooth_ms`を150にすれば止まらない（EcoCaptureの負荷が気になるときの逃げ道）
+（本当の値の1コマの動きは約190rpm。「今」で止まるのは、値がいつもより遅れて届いた間だけ）
+- 11/6の走行記録の回転数20秒（887〜3964rpm）を、カメラの遅れ60msとして同じ流れで流した比較の図：`outputs/needle_smooth_20261107/needle_rpm_compare.png`（前：止まったコマ186/538・最大931rpm、今：0/538・296rpm）
+- 単体：同じ時刻の読み直しを足さない・先は新しい値のまま・撮った時刻の値があればそれ・無ければ待つ・待つ秒の上限と縮み方・上限0で前の描き方・途切れ・片方が無い値・STM32の再起動・16個を超えたとき
+- 10Hzで読むままでも`smooth_ms`を200にすれば、ほぼ止まらない（EcoCaptureの負荷が気になるときの逃げ道）
 - `hud_draw`に補間した値を渡す口を足した。渡さないとき（`hud_dump`）の頂点は、前の版と36通り（9つの状態×4つの設定）で1点も変わらない。`tools/video_hud`の試験26件も通る。`overlay_rec.c`はWSLで組み上がる
 
 **本体へ入れる手順**（まだ入れていない）：5-13と同じく、`overlay_rec.c`・`tele_smooth.h`・`run-video.sh`ほか一式を自分の置き場へ送り、rootで`install-video.sh <置き場>`。入れたら：
 1. journalに起動の表示が出て、録画が30コマ/秒のまま
-2. EcoCaptureのCPUが増えすぎていないか（読む回数が2.5倍になる）。重ければ`telemetry_hz`に`10`、`smooth_ms`に`150`
-3. 新しい章で針が止まらずに動くこと（空ぶかしで回転計を見る）
+2. EcoCaptureのCPUが増えすぎていないか（読む回数が2.5倍になる）。重ければ`telemetry_hz`に`10`、`smooth_ms`に`200`
+3. 1分後のjournalの`smooth:`の行（camera_age・wait・needle_behind_camera）を記録する
+4. 新しい章で針が止まらずに動くこと（空ぶかしで回転計を見る）
+5. 景色と針が本当に揃っているかは、録画の音で確かめられる：空ぶかしのエンジンの音の高さが上がる瞬間と、回転計が上がる瞬間を比べる（音は録画プログラムが同じ時計で時刻を付けている）
 
 **戻すとき**：`~/ecologger-video/smooth_ms`に`0`、`telemetry_hz`に`10`と書いて録画を再起動すると、前と同じ描き方・読み方になる
 

diff --git a/CLAUDE.md b/CLAUDE.md
@@ -48,7 +48,7 @@ RaceCapture互換の車載データロガーを自作するプロジェクト。
 - `defi_sensor_curves_research.md`：Defiの油圧・温度センサーの電圧特性の調べもの（Defiは公式に非公開。海外フォーラムの実測表・個人サイトのメーター換算・公式のコネクター色を集め、2026-11-03〜04の実測と照合）。油圧は P[kPa]≒250×(V−V0)、温度はβが高温ほど大きい
 - `sensorhub_generic_spec.md`：**汎用センサーハブ**（アナログ8ch・デジタル4ch・出力2ch、PIC＋外部CAN数珠繋ぎ）のLintarohさん向け要求仕様。Defi傍受基板とは別物で併用する。**外部CANバス全体のID割り当て表（5章）と、設定をロガー側に置く運用ルール（6章）もここが正**
 - `ecorun_team_systems.md`：エコランチーム（GitHub組織`TMCIT-Ecorun`）の既存システム（フロントパネル・通話試作・ダッシュボード）とEcoLoggerの関係、通話・中継サーバーの構成方針。**チーム側リポジトリは読むだけで変更しない**（例外：`ecorun-logger-server`はMaruo.Sさんの依頼でブランチ＋PRで変更する。2026-10-14〜）
-- `unoq_video_check_procedure.md`：UNO Qの映像確認（V-1〜V-5）の手順と実測結果。5-6章に走行映像へのプロット焼き込みの模擬試験（試験プログラムは`tools/unoq_overlay_enc/`）。5-14章が焼き込む計器の設定ファイル（ユーザーが書き換える`tools/video_hud/hud.ini`、PCで見る`Preview-HUD.cmd`、本体へ送る`Apply-HUD.cmd`）。5-16章がRaceChronoのような配置（針のメーター・コース図・ベストとの差。差は本体の`tools/unoq_overlay_enc/lap_ref.h`で計算。**2026-11-04に本体へ導入済み**、前の版は`*.pre-v2-20261104`）。5-17章が動画の「走行＋章」の名前と回収アプリ、5-18章が**ドラレコ式の消し方**（動画と走行記録をまとめて回収済み→ほかの古い順、下限1GiB。決まりは録画の`video_store.h`とEcoCaptureの`EcoCapture-Web/video_store.py`で同じ、場面の試験は`tools/unoq_overlay_enc/testdata/video_store/`）とSDカードの画面。5-19章が**レンズの歪みの補正・ズーム**と、本体のモニターで画角を決めるプレビュー（`tools/lens_view/`：PCで見る`Lens-View.cmd`、モニターで決める`Lens-Preview.cmd`、値を送る`Apply-Lens.cmd`。値は本体の`/home/arduino/ecologger-video/lens.json`、無ければ補正しない）。5-20章が**録画の音**（カメラ内蔵のマイクをMP2で`.ts`へ。本体に`libtwolame0`が要り、無ければ音なし。試験は`tools/unoq_overlay_enc/audio_mux_test.c`）とGボールの横の向き。5-21章が**露出を録画プログラムで決める仕組み**（明るい日の白飛び対策。`tools/unoq_overlay_enc/auto_exposure.h`、設定は本体の`/home/arduino/ecologger-video/exposure.ini`、`mode = camera`でカメラ任せに戻る。PCから見る・切り替えるのは`tools/video_exposure/Exposure.cmd`）。5-22章が焼き込みの回転計の色を車の画面（DASH）と同じ決まりにした分（DASHの帯そのものは画角に写るので焼き込まない）。5-23章が**録画の音の割れ**の対策（カメラのマイクの音量を−15dBへ下げる`mic-volume.sh`、100Hzより下を削る・リミッター。調整は本体の`/home/arduino/ecologger-video/audio.ini`、`mic_volume`はdBで書く）。5-24章が**針の補間**（値を約25Hzで読み、`mcu_ms`の時刻で前後の間を補間して0.1秒遅れで描く。`tools/unoq_overlay_enc/tele_smooth.h`、調整は本体の`~/ecologger-video/smooth_ms`・`telemetry_hz`、`smooth_ms`に0で前の描き方）
+- `unoq_video_check_procedure.md`：UNO Qの映像確認（V-1〜V-5）の手順と実測結果。5-6章に走行映像へのプロット焼き込みの模擬試験（試験プログラムは`tools/unoq_overlay_enc/`）。5-14章が焼き込む計器の設定ファイル（ユーザーが書き換える`tools/video_hud/hud.ini`、PCで見る`Preview-HUD.cmd`、本体へ送る`Apply-HUD.cmd`）。5-16章がRaceChronoのような配置（針のメーター・コース図・ベストとの差。差は本体の`tools/unoq_overlay_enc/lap_ref.h`で計算。**2026-11-04に本体へ導入済み**、前の版は`*.pre-v2-20261104`）。5-17章が動画の「走行＋章」の名前と回収アプリ、5-18章が**ドラレコ式の消し方**（動画と走行記録をまとめて回収済み→ほかの古い順、下限1GiB。決まりは録画の`video_store.h`とEcoCaptureの`EcoCapture-Web/video_store.py`で同じ、場面の試験は`tools/unoq_overlay_enc/testdata/video_store/`）とSDカードの画面。5-19章が**レンズの歪みの補正・ズーム**と、本体のモニターで画角を決めるプレビュー（`tools/lens_view/`：PCで見る`Lens-View.cmd`、モニターで決める`Lens-Preview.cmd`、値を送る`Apply-Lens.cmd`。値は本体の`/home/arduino/ecologger-video/lens.json`、無ければ補正しない）。5-20章が**録画の音**（カメラ内蔵のマイクをMP2で`.ts`へ。本体に`libtwolame0`が要り、無ければ音なし。試験は`tools/unoq_overlay_enc/audio_mux_test.c`）とGボールの横の向き。5-21章が**露出を録画プログラムで決める仕組み**（明るい日の白飛び対策。`tools/unoq_overlay_enc/auto_exposure.h`、設定は本体の`/home/arduino/ecologger-video/exposure.ini`、`mode = camera`でカメラ任せに戻る。PCから見る・切り替えるのは`tools/video_exposure/Exposure.cmd`）。5-22章が焼き込みの回転計の色を車の画面（DASH）と同じ決まりにした分（DASHの帯そのものは画角に写るので焼き込まない）。5-23章が**録画の音の割れ**の対策（カメラのマイクの音量を−15dBへ下げる`mic-volume.sh`、100Hzより下を削る・リミッター。調整は本体の`/home/arduino/ecologger-video/audio.ini`、`mic_volume`はdBで書く）。5-24章が**針の補間**（値を約25Hzで読み、カメラがその絵を撮った時刻の値を`mcu_ms`の時刻で前後の間から補間して描く。`tools/unoq_overlay_enc/tele_smooth.h`、調整は本体の`~/ecologger-video/smooth_ms`（待つ上限）・`telemetry_hz`、`smooth_ms`に0で前の描き方）
 - `tools/ecologger_menu/`：**Ver.2の操作メニュー**（デスクトップの「EcoLogger Ver.2」、作り直しは`Make-Shortcut.cmd`）。本体の状態を30秒ごとに表示し、HDMIの画面の切り替え・ラップのリセットと、下に並ぶ回収・HUD・レンズ・電波の`.cmd`をボタンで開く。つなぎ方はUSBのadb→テザリングのssh。つながらないときの記録は`%USERPROFILE%\.ecologger\ecologger_menu.log`（PC側の合言葉・前回のIPも同じ場所。**`%LOCALAPPDATA%`はClaudeのアプリから動かしたときだけ`Packages\Claude_*\LocalCache\Local`へ振り替えられ、ショートカットから開いた道具と食い違うので使わない**。adbもその振り替え先にある）。**新しい`.cmd`を作ったらここの`TOOL_GROUPS`にも足す**。「LTEで」のボタンは`tools/remote_command/remote_command_pc.py`（ピットからLTE経由で決まった命令を送る。本体側は`EcoCapture-Web/remote_command.py`、合言葉はPCと本体にだけ置きリポジトリに入れない）
 - `tools/video_collect/Collect-Video.cmd`：**走行映像の回収アプリ**（ネット不要。USB直結のadb、予備にテザリングのssh）。走行ごとの一覧・あと何分録れるか・吸い出し（本体とPCのSHA-256を比べて本体に回収済みの印）・本体から消す（印のあるものだけ）・保護・1本につなげる・控え。保存先は`drive_logs/v2_video/<走行>/`。`Collect-Logs.cmd`の動画の回収も同じ処理。**シールドのSDカード**（PCのカードリーダー）の確かめる・回収・空にする・フォーマットもここ（`sd_card.py`）。SDの回収済みは中身で見る（`drive_logs/v2_sd_index.json`）
 - `unoq_video_to_shield_sd_study.md`：焼き込み映像をシールド側SDへ保存できるか（E-6）の調査。Linux→STM32の内部SPI、ビットレートと画質の実測、SD側のボトルネック

diff --git a/task_sugo_20261108_breakdown.md b/task_sugo_20261108_breakdown.md
@@ -426,7 +426,8 @@
   - [x] 夜はカメラが16.7コマ/秒に落ちる（11/5夜の動画）。針のカクつきの主な原因。昼のSUGOでは30コマ/秒の見込みなので、SUGOの前は直さない。直すなら露出を録画プログラムで調整する（5-20）
     → 下の露出の仕組み（露出30msまで・足りない分はゲイン）で直った。11/6夜の屋内で、前の版20.0コマ/秒→新しい版32.2コマ/秒（暗くてゲイン最大のときも同じ。5-21）
   - [ ] 2026-11-07：**昼でも針の動きが粗い**（ユーザー指摘）。録画プログラムが値を約10Hzでしか読まず、針が約3コマ止まっては跳んでいた（元のデータは回転数・車速とも約40Hz）。
-    約25Hzで読み、サンプルの時刻（`mcu_ms`）で前後の間を補間して0.1秒遅れで描くようにした（針・弧・棒・Gボールだけ。`unoq_video_check_procedure.md`5-24、`tools/unoq_overlay_enc/tele_smooth.h`）
+    約25Hzで読み、サンプルの時刻（`mcu_ms`）で前後の間を補間して描くようにした（針・弧・棒・Gボールだけ。`unoq_video_check_procedure.md`5-24、`tools/unoq_overlay_enc/tele_smooth.h`）
+    - [x] 遅れの件（ユーザー判断「合わせて」）：描く時刻を「今−0.1秒」から**カメラがその絵を撮った時刻**に変えた。その値がまだ届いていなければ、本体で測った待つ秒（上限150ms）まで戻す。PCの模擬でカメラの遅れ100ms以上なら針は景色より約11ms遅れるだけ（前は−57〜+73msでばらつき、カメラの遅れが長いと針が先に動いていた）
     - [x] PCで作り、本体の流れを真似た試験で、針が止まるコマ64%→0%・1コマの最大の動き623→177rpm、平均の遅れは95→114ms。11/6の走行記録でも同じ（`outputs/needle_smooth_20261107/`）。`overlay_rec.c`はWSLで組み上がる
     - [ ] 本体へ入れる（5-24の手順。ユーザーの了承を取ってから）。入れたらEcoCaptureのCPUと30コマ/秒を確かめ、空ぶかしで針を見る。戻すときは`~/ecologger-video/smooth_ms`に0
   - [ ] 2026-11-06：**明るい日に窓の外が白く飛ぶ**（ユーザー指摘、11/6の動画で明るい場面の窓の7割以上が飛び。カメラ任せの露出が暗い車内に引っぱられるため）。
